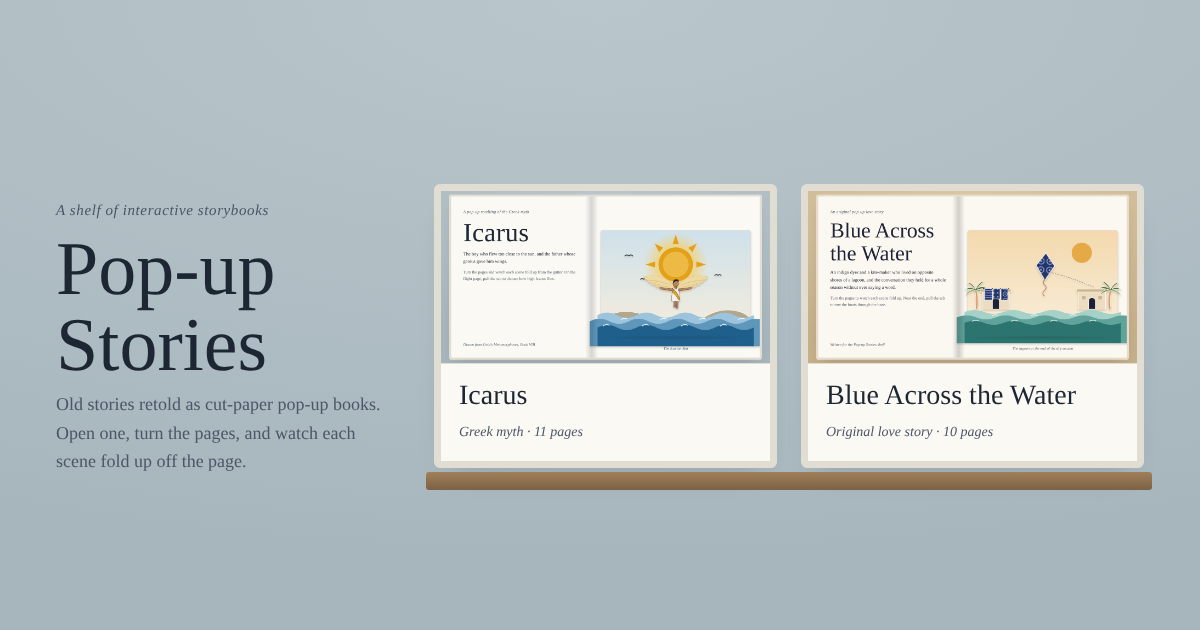
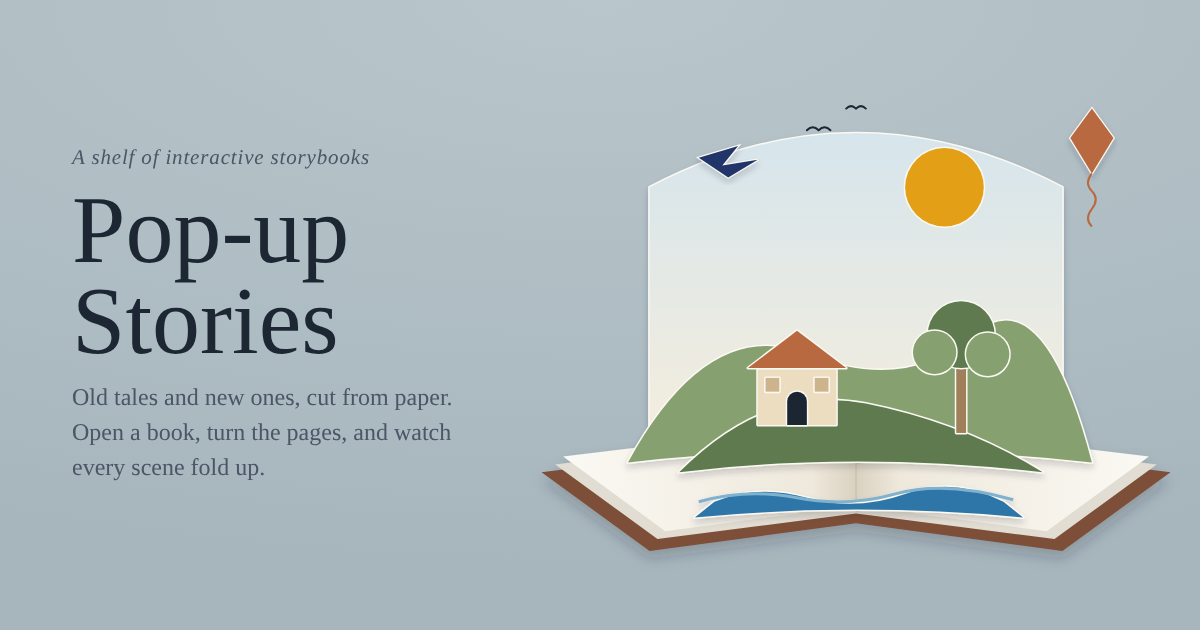
Use a general pop-up book image as the shelf's share preview
Claude-Session: https://claude.ai/code/session_01E1FDHiJYZfZA8skEpf5wta

diff --git a/index.html b/index.html
@@ -20,12 +20,12 @@
 <meta property="og:image" content="https://codelikesuraj.github.io/pop-up-story/og-image.png">
 <meta property="og:image:width" content="1200">
 <meta property="og:image:height" content="630">
-<meta property="og:image:alt" content="The Pop-up Stories shelf, showing the Icarus and Blue Across the Water storybooks">
+<meta property="og:image:alt" content="An open pop-up book with a cut-paper countryside scene folding up from its pages">
 <meta name="twitter:card" content="summary_large_image">
 <meta name="twitter:title" content="Pop-up Stories">
 <meta name="twitter:description" content="Interactive pop-up storybooks you can page through in the browser.">
 <meta name="twitter:image" content="https://codelikesuraj.github.io/pop-up-story/og-image.png">
-<meta name="twitter:image:alt" content="The Pop-up Stories shelf, showing the Icarus and Blue Across the Water storybooks">
+<meta name="twitter:image:alt" content="An open pop-up book with a cut-paper countryside scene folding up from its pages">
 
 <link rel="preconnect" href="https://fonts.googleapis.com">
 <link rel="preconnect" href="https://fonts.gstatic.com" crossorigin>
